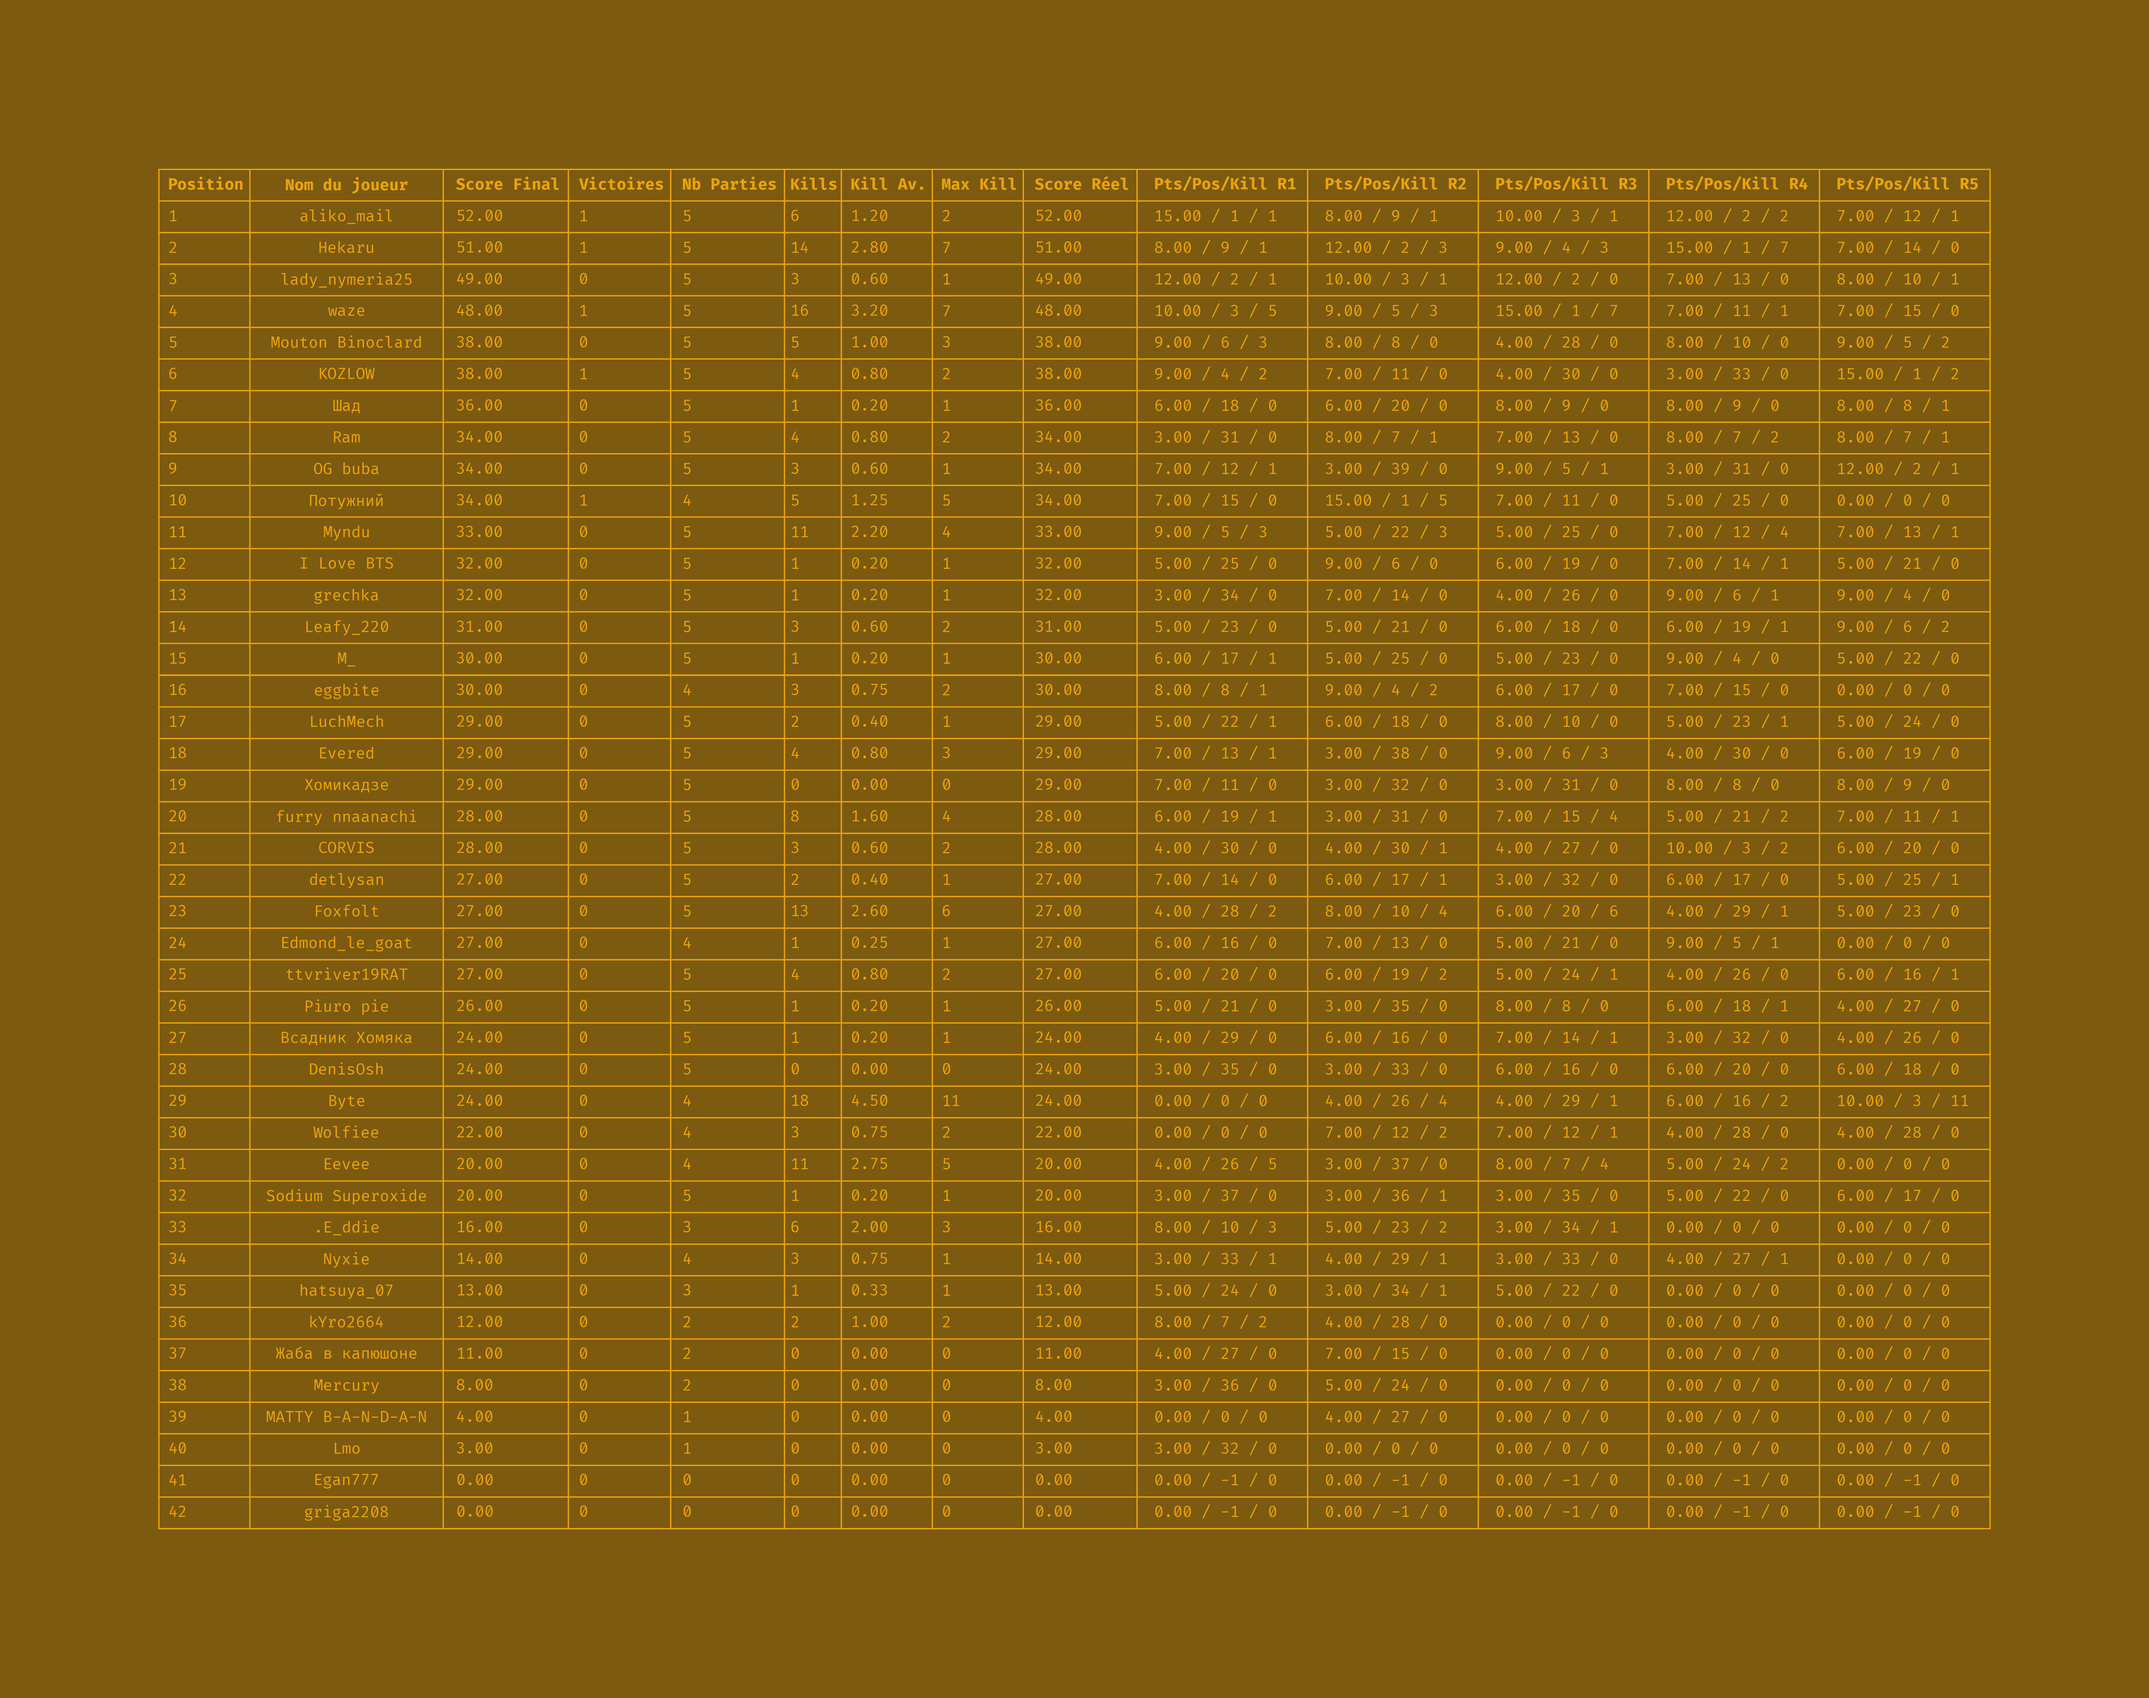
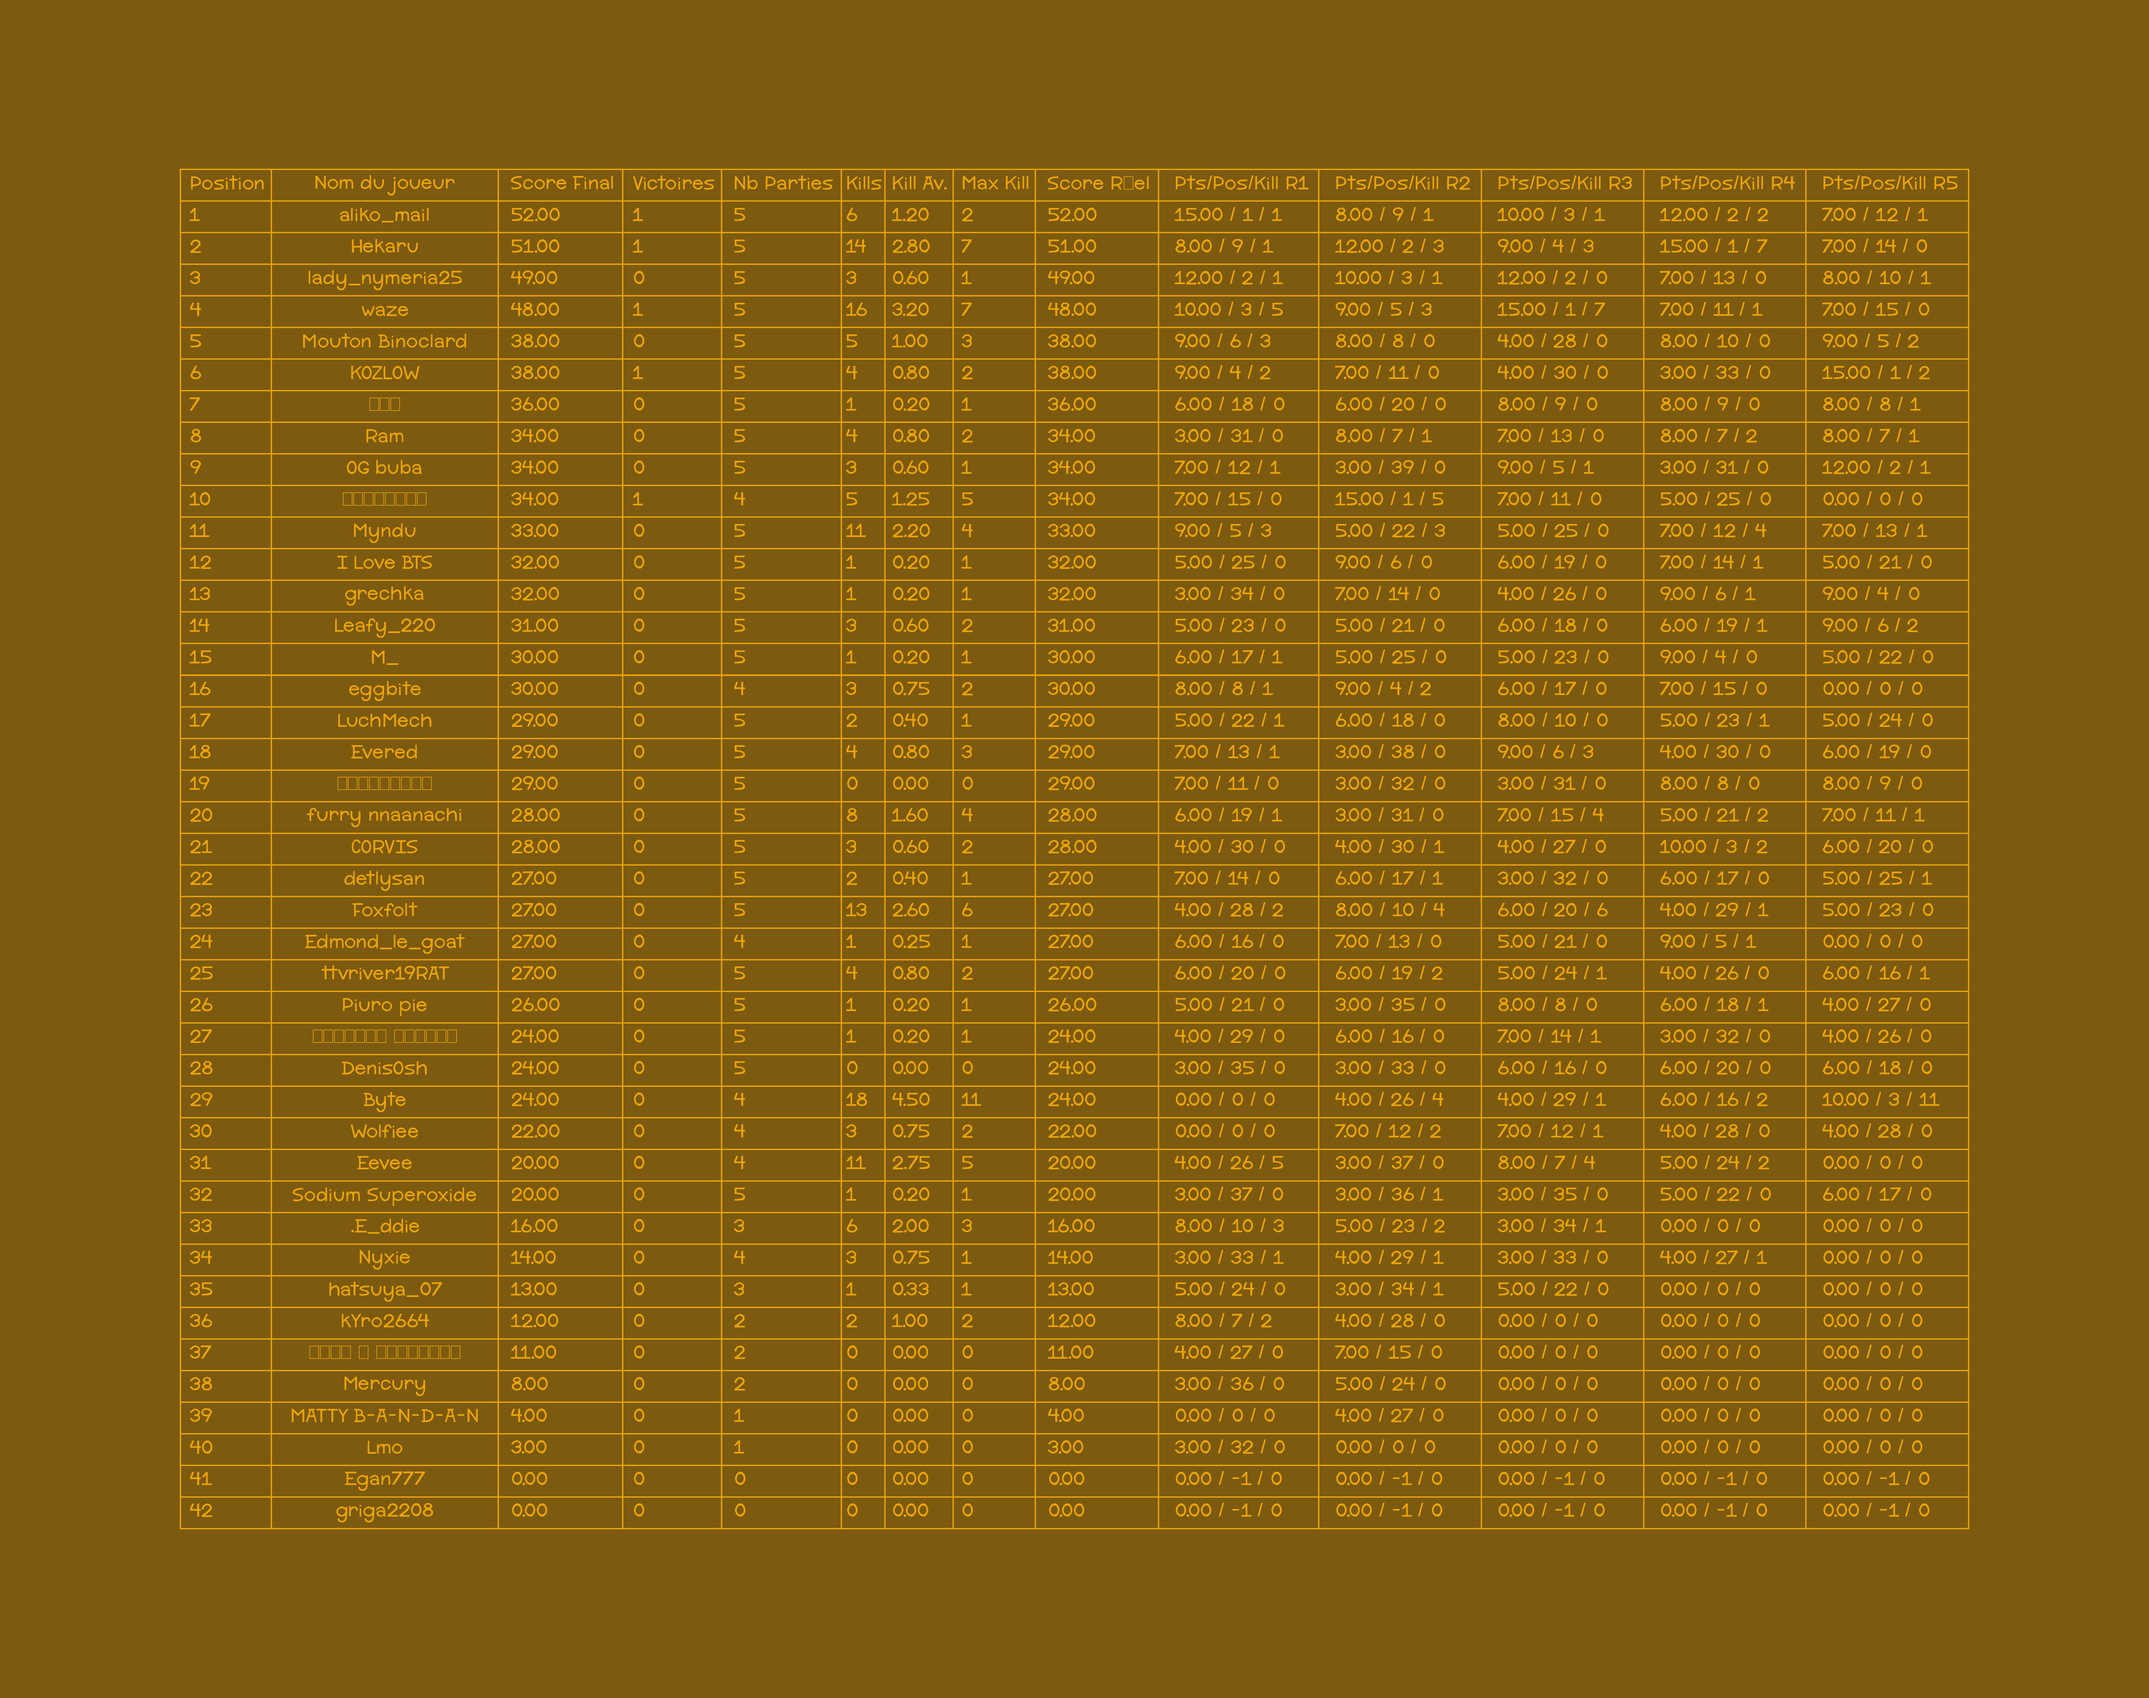
Trying to understand font management

diff --git a/SPC.py b/SPC.py
@@ -52,7 +52,7 @@ zoom_logo=0.16
 date=True
 
 add_custom_fonts = True
-font_path = "SPC_fonts/FiraCode.ttf"
+font_name = "Zoetic"
 
 # ----------------------------------------------------------------------------
 
@@ -76,11 +76,18 @@ color_scheme = "SPC_color_schemes/pvp_arena_solo.json"
 
 # Start of the code
 
+
 if add_custom_fonts:
-    # Charger la police personnalisée
-    custom_font = fm.FontProperties(fname=font_path)
+
+    fp = fm.FontProperties(fname=r"C:\Windows\Fonts\Zoetic.ttf")
+    print(fp.get_name())
+
+    # fontlist-vXXX.json
+    
     # Appliquer la police globalement
-    rcParams['font.family'] = custom_font.get_name()
+    rcParams['font.family'] = [font_name]
+
+
 
 else:
     # Réinitialiser la police à la valeur par défaut de Matplotlib
